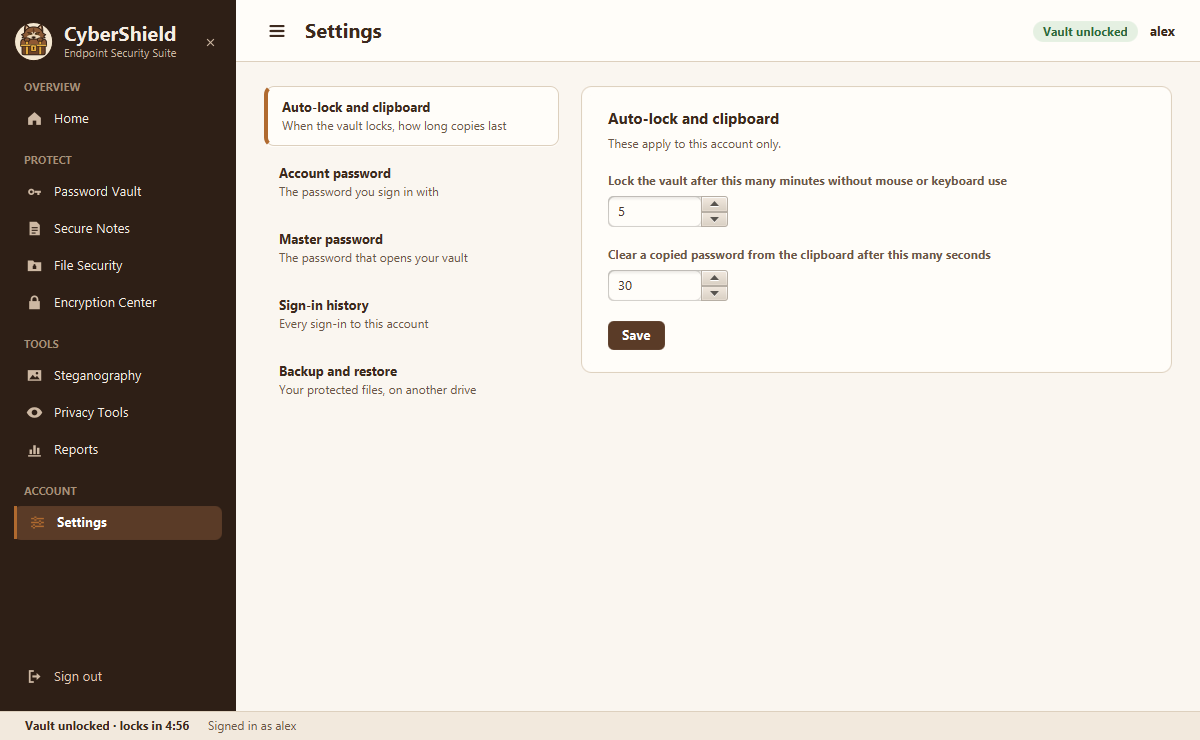
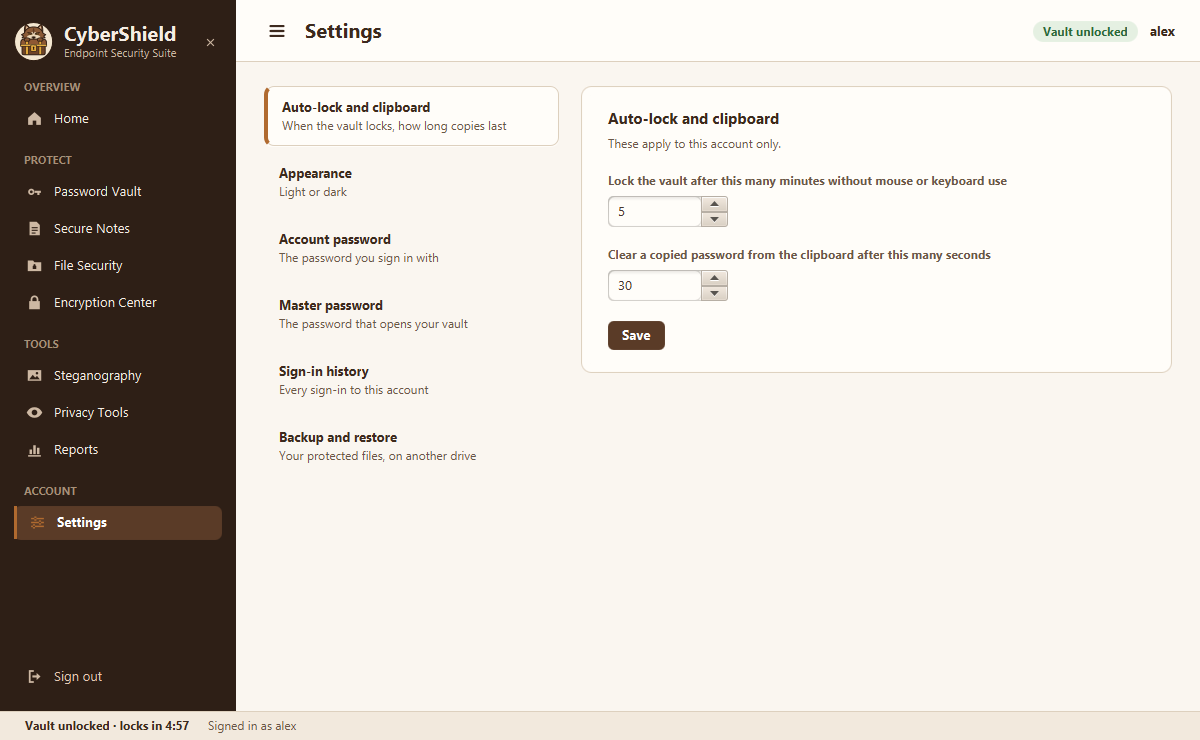
Docs: Phase 5 in the README and CHANGELOG
- README: the dark theme, installing and building the installer, the
  automatic builds, the data folder and the log; Phase 5 marked done.
- CHANGELOG entry for Phase 5.
- A dark-theme screenshot, and Settings with its Appearance section.
- .gitignore: the database's new place.

diff --git a/README.md b/README.md
@@ -2,6 +2,8 @@
 
 # CyberShield Endpoint Security Suite
 
+[![Build](https://github.com/SHAIKIMRAN01/CyberShield-Endpoint-Security-Suite/actions/workflows/build.yml/badge.svg)](https://github.com/SHAIKIMRAN01/CyberShield-Endpoint-Security-Suite/actions/workflows/build.yml)
+
 A Windows desktop app that keeps passwords and files private on a shared PC. Every account has its own encrypted vault, and nothing leaves the computer. Built with Java 21, JavaFX 21 and SQLite.
 
 ![Home screen](docs/screenshots/home.png)
@@ -64,6 +66,7 @@ A Windows desktop app that keeps passwords and files private on a shared PC. Eve
 - An on-screen keyboard beside the password on the sign-in and vault screens, against keyloggers. Mix the keys puts them in a new order.
 
 **Settings**
+- Light or dark theme, per account. It changes at once, and the sign-in screen shows the theme the last account used.
 - Auto-lock minutes and clipboard clear time, per account.
 - Change the account password or the master password.
 - Sign-in history, with what each sign-in did.
@@ -80,14 +83,15 @@ A Windows desktop app that keeps passwords and files private on a shared PC. Eve
 | ![File Security](docs/screenshots/file-security.png) | ![File Security tools](docs/screenshots/file-security-tools.png) |
 | **Steganography** | **Privacy Tools** |
 | ![Steganography](docs/screenshots/steganography.png) | ![Privacy Tools](docs/screenshots/privacy-tools.png) |
-| **Settings** | |
-| ![Settings](docs/screenshots/settings.png) | |
+| **Settings** | **Dark theme** |
+| ![Settings](docs/screenshots/settings.png) | ![Dark theme](docs/screenshots/dark-home.png) |
 
 ## Requirements
 
 - Windows 10 or 11, 64-bit. File Security uses Windows file attributes, and the video player's FFmpeg libraries are the Windows 64-bit ones.
-- JDK 21 or newer.
+- JDK 21 or newer. Maven compiles for Java 21 (`--release 21`), so nothing newer is used by accident.
 - Maven 3.9 or newer.
+- For the installer only: WiX Toolset 3.14, which jpackage uses to make the .msi (see below).
 
 ## Run
 
@@ -101,11 +105,36 @@ From IntelliJ IDEA, open the project as a Maven project and run the `javafx:run`
 --add-exports javafx.media/com.sun.media.jfxmedia.locator=ALL-UNNAMED
 ```
 
+## Install
+
+`CyberShield-1.0.0.msi` installs CyberShield for the Windows user running it, with no administrator rights needed:
+- into `%LOCALAPPDATA%\CyberShield App`, with its own Java, so nothing else needs installing;
+- with a Start menu entry and a desktop shortcut;
+- removable from Settings → Apps → Installed apps.
+
+The app keeps its data in `%LOCALAPPDATA%\CyberShield`, a folder of its own (see below), so removing or upgrading the app leaves accounts, vaults and protected files alone. A newer installer replaces an older one in place.
+
+### Build the installer
+
+```
+.\scripts\build-installer.ps1 -Jdk "C:\Program Files\Java\jdk-25.0.2" -WixDir E:\project\tools\wix314
+```
+
+It runs the tests, makes a Java runtime with only the modules CyberShield needs (jlink), makes the app folder `target\installer\app-image\CyberShield` (it runs without installing), and packs that same folder into `target\installer\CyberShield-1.0.0.msi`. `-AppImageOnly` stops after the app folder and needs no WiX; `-SkipTests` skips the tests. WiX 3.14 is the `wix314-binaries.zip` of the official [WiX Toolset release](https://github.com/wixtoolset/wix3/releases/tag/wix3141rtm), unpacked into a folder; nothing is installed into Windows.
+
+The tests also run on the bundled runtime, which shows it lacks no module the app uses:
+
+```
+mvn test -Djvm=target\installer-runtime\bin\java.exe
+```
+
 ## Test
 
 ```
 mvn test
 ```
+
+GitHub Actions (`.github/workflows/build.yml`) builds and runs every test on each push and pull request, on Windows with Java 21 and Java 25. A version tag such as `v1.0.0`, or starting the workflow by hand, also builds the installer and keeps it with the run. Tests that need JavaFX's own media player check first that JavaFX can play such a file on that computer at all (build servers may have no video decoders or sound device) and are skipped where it can't.
 
 The tests cover:
 - encryption and the protected-file format, including tampering, and the Encryption Center's shared text, files and checksums;
@@ -133,7 +162,7 @@ mvn test -Dtest=ScreensTest -Dcybershield.snapshots=target/screens
 
 | What | Where |
 |---|---|
-| Accounts, encrypted logins, settings, sign-in history | `database/cybershield.db` in the folder the app runs from |
+| Accounts, encrypted logins, settings, sign-in history | `%LOCALAPPDATA%\CyberShield\Data\cybershield.db`. Older versions kept it in `database\cybershield.db` beside the app: it is copied across on the first start, and the old file stays as it was |
 | Encrypted protected files (hidden and system folder) | `%LOCALAPPDATA%\CyberShield\FileVault` |
 | A copy of each vault's wrapped key, for recovery | `%LOCALAPPDATA%\CyberShield\FileVault\keys` |
 | What each sign-in did (names encrypted), removed after 30 days | the database |
@@ -141,8 +170,10 @@ mvn test -Dtest=ScreensTest -Dcybershield.snapshots=target/screens
 | Reports | the PDF wherever you save it; the list of them in the database |
 | Monthly reports | `Documents\CyberShield reports`, or the folder you choose |
 | Pictures with something hidden | where you save them, as PNG |
+| The log | `%LOCALAPPDATA%\CyberShield\logs\cybershield.log`, kept to five files of 1 MB |
+| The installed app | `%LOCALAPPDATA%\CyberShield App` |
 
-The database is not in git (see `.gitignore`).
+The database is not in git (see `.gitignore`). The tests use their own temp folders for all of this.
 
 ## Security design
 
@@ -168,6 +199,8 @@ The database is not in git (see `.gitignore`).
 
 **Steganography** seals the message or file the same way before hiding it, then spreads it over the lowest bit of the red, green and blue values, behind a short header. Without the password the bits are just noise; a wrong password is refused.
 
+**The log** holds what happened and counts, never passwords, note text, website names or file names. Error messages from Java can name a file, so every folder or file path in a line is replaced with `<path>` before it is written, and accounts appear by number.
+
 **Shredding** renames each file to a random name, overwrites it with random data, flushes it to the disk, empties it and deletes it. The places File Security refuses (drives, the user folder, system and program folders, CyberShield's own files) are refused here too.
 
 **Limits**
@@ -187,18 +220,20 @@ In v1 all accounts shared one vault. The first time an account that has items in
 - **Logo:** a brown cartoon wolf guarding a treasure chest (`docs/logo.svg`), drawn from shapes in `ui/Logo.java`, so it is sharp from the window icon up.
 - **Opening:** a golden key flies into the chest's lock and turns, the wolf steps back, the lid opens and light fills the screen, then the sign-in screen appears. A click or any key skips it; `-Dcybershield.noIntro=true` turns it off.
 - **Sidebar:** the ☰ button (or Ctrl+B) shrinks it to its icons and back; ✕ closes it, and ☰ brings it back.
-- **One stylesheet:** the palette lives in `src/main/resources/css/theme.css`.
+- **One palette:** every colour has a name in `src/main/resources/css/theme.css` (`-cs-paper`, `-cs-ink`, `-cs-heading` and so on), and the other stylesheets use the names.
+- **Dark theme:** `theme-dark.css` gives the same names deep brown values and goes last on each window (`ui/Theme.java`). The sidebar and the sign-in screen's brand panel stay brown; every text colour is at least 4.5:1 against its background.
 
 ## Project layout
 
 ```
 src/main/java/com/cybershield/
   app/          entry point
-  config/       paths and constants
+  config/       the data folder, the database's place, constants
   database/     schema set-up and upgrades
   dao/          users, sign-in history, activity, settings
   encryption/   AES-GCM, PBKDF2, the CSF1 file format, shared files, checksums
   files/        File Security: protect, hide, restore, check, back up, recover
+  logger/       the log, on the console and in a file
   notes/        Secure Notes data
   password/     Password Vault data and password health
   privacy/      the shredder, photo details, the Windows traces cleaner
@@ -211,9 +246,12 @@ src/main/java/com/cybershield/
   utils/        validation, generator, formatting
 src/main/resources/
   fxml/         screen layouts
-  css/          theme.css and one stylesheet per screen
+  css/          theme.css, theme-dark.css and one stylesheet per screen
   sql/          schema.sql
+src/main/packaging/  the installer's icon
 src/test/java/  JUnit tests
+scripts/        build-installer.ps1
+.github/workflows/  automatic builds
 ```
 
 ## Roadmap
@@ -225,7 +263,8 @@ src/test/java/  JUnit tests
 | 2 · Core modules | 6–11 | Secure Notes, every Password Vault field encrypted, home screen score | Done |
 | 3 · Tools & reports | 11–15 | Encryption Center, PDF reports, File Security backup and recovery | Done |
 | 4 · Extras | 16–20 | Steganography, Privacy Tools, sign-ins by date, the monthly report, backups from Settings | Done |
-| 5 · Polish & release | 20–21 | Light and dark themes, installer, automatic builds | Next |
+| 5 · Polish & release | 20–21 | Dark theme, logging clean-up, automatic builds, Windows installer | Done |
+| Backlog | after 1.0 | The Advanced tasks: charts in reports, importing and exporting logins, password history, start-up options and languages | |
 
 ## License
 

diff --git a/CHANGELOG.md b/CHANGELOG.md
@@ -1,5 +1,23 @@
 # Changelog
 
+## Unreleased: Phase 5, the dark theme and the Windows installer
+
+### Added
+- **Dark theme** (Settings → Appearance): light or dark, chosen per account and shown at once in every window. The sign-in screen shows the theme the last account used. `theme-dark.css` gives the colour names of `theme.css` deep brown values; every text colour in it is at least 4.5:1 against its background.
+- **Windows installer:** `scripts\build-installer.ps1` makes `CyberShield-1.0.0.msi` with jpackage and WiX 3.14: a per-user install (no administrator) into `%LOCALAPPDATA%\CyberShield App`, with its own Java 25 runtime trimmed to the modules the app uses, Start menu and desktop shortcuts, an uninstall entry, the app icon, and an upgrade code so newer versions replace older ones. Tried here: installed silently, started, removed cleanly.
+- **Automatic builds:** a GitHub Actions workflow builds and runs every test on Windows with Java 21 and 25 on each push and pull request; a version tag or a manual run also builds the installer. WiX is downloaded there and checked against its SHA-256.
+
+### Changed
+- **One data folder:** the database moves from `database\cybershield.db` beside the app to `%LOCALAPPDATA%\CyberShield\Data`, next to the protected-files store, so the installed app and a copy run from the project share it. On the first start an older database is copied across by SQLite itself (`VACUUM INTO`) through a `.part` file; the old file is kept, an existing database is never replaced, and a failed copy stops the start with a message instead of starting empty.
+- **Logging:** one line per event (INFO, WARN, ERROR) on the console and in `%LOCALAPPDATA%\CyberShield\logs\cybershield.log`, kept to five files of 1 MB. Paths in messages become `<path>`, accounts appear by number, errors keep their stack trace in the file, and unexpected errors on any thread are logged. Messages on screen point at the log file instead of a console. Log4j, declared but never used, is gone.
+- **Build:** Maven compiles with `--release 21`, and the jar and dependency plugins are pinned and copy the libraries for the installer.
+- **Database upgrades on start:** `user_settings.theme` and a new `app_settings` table.
+- **Tests:** 196 JUnit tests now. They also pass on the installer's Java runtime.
+
+### Fixed
+- **A flaky test:** JavaFX's own video player (the fallback when FFmpeg can't run) sometimes fails to start a good MP4 on Windows. The two tests that use it try up to three times, and skip where JavaFX can't play such a file at all.
+- **The schema loader** split statements on every semicolon, so one in a comment cut a statement in two. Comments go first now.
+
 ## Unreleased: Phase 4, Steganography and Privacy Tools
 
 ### Added
